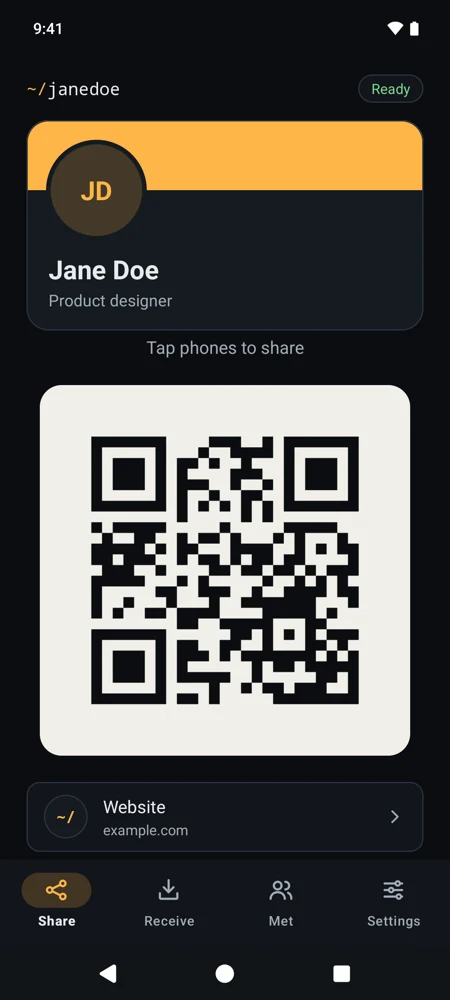
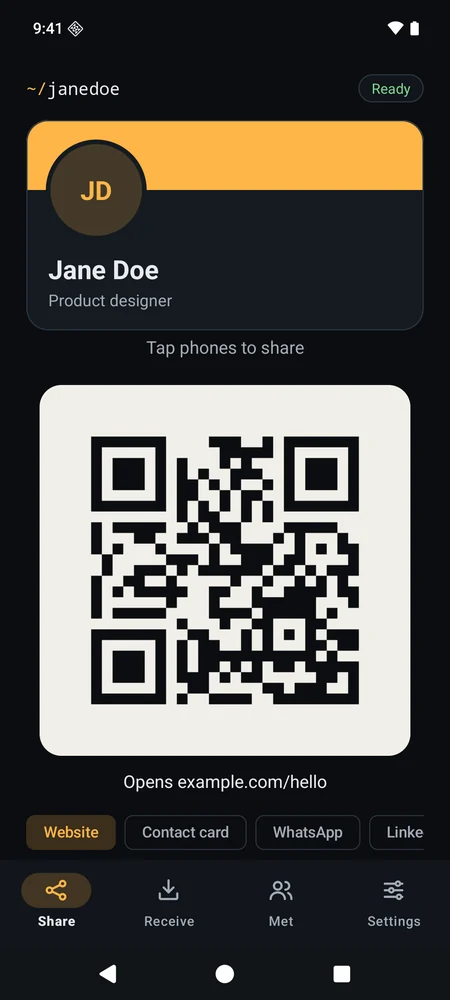
Tilde 1.1: case study and product page screenshots (not yet live)
For when Tilde 1.1.0 is released: the v1.1 status, fresh Share screen and
options screenshots, the 1.1 features in the case study, how changes are
now tested (a debug app beside the release, then a pre-release through
Obtainium), and an updated Next list. Write a card has since been tested
on a real sticker, so it's no longer listed as untested. The APK-size
note now says "under 2 MB" (1.1 is 1.7 MB) rather than an exact figure.

diff --git a/src/content/projects.ts b/src/content/projects.ts
@@ -119,7 +119,7 @@ export const projects: Project[] = [
     title: 'Tilde',
     kind: 'Open source · Android + hardware',
     year: '2026',
-    status: 'Open source · v1.0',
+    status: 'Open source · v1.1',
     live: 'https://tbutman.com/tilde',
     repo: 'https://github.com/tbutman/tilde',
     links: [{ label: 'card source on github', href: 'https://github.com/tbutman/tilde-card' }],
@@ -163,19 +163,20 @@ export const projects: Project[] = [
         heading: 'shipping it like a product',
         body: [
           'Both halves are public under the MIT licence, with documentation written for non-technical people: how to install the app, which stickers to buy and how to print the card. Every push runs the tests and lint in CI. A version tag builds a signed, shrunk release and publishes it on GitHub, where the Obtainium app picks up updates.',
+          'Using 1.0 every day shaped 1.1: a four-step welcome with a live preview of the card, saved links with a quick-switch row, and Send for people who aren’t in the room. Changes are tried on my phone as a separate debug app that installs next to the release; a pre-release then updates the real app through Obtainium, so the signed upgrade is tested before anyone else gets it.',
         ],
       },
     ],
     built: [
       'An Android app in Kotlin that emulates an NFC Forum Type 4 Tag with Host Card Emulation, serving links, vCards and Wi-Fi credentials as NDEF records.',
-      'Sharing that switches in one tap: a full contact card (vCard), a website or profile link, a WhatsApp chat or guest Wi-Fi. Plus receive and write modes: read other tags and phones, or write a link or contact card onto an NFC sticker or printed card.',
-      'A Met list of everyone a tap reached, with notes, event tags and CSV export; a welcome flow; a profile photo with an in-app cropper; and a Quick Settings tile.',
-      'Unit tests for the tag protocol, NDEF records, vCards and the Met log, plus CI and tag-triggered, signed GitHub releases (R8 shrinks the APK from 7.3 MB to 1.6 MB).',
+      'Sharing that switches in one tap or a swipe: a full contact card (vCard), a website or profile link, saved links, a WhatsApp chat or guest Wi-Fi, with Send and Copy for sharing at a distance. Plus receive and write modes: read other tags and phones, or write a link or contact card onto an NFC sticker or printed card.',
+      'A Met list of everyone a tap reached, with notes, event tags and CSV export; a four-step welcome with a live card preview and country-aware phone numbers; a profile photo with an in-app cropper; and a Quick Settings tile.',
+      'Unit tests for the tag protocol, NDEF records, vCards, saved links and the Met log, plus CI and tag-triggered, signed GitHub releases (R8 keeps the APK under 2 MB).',
       'A parametric OpenSCAD card in four colours: QR code only or with an NFC tag (thin or thick stickers), three back styles, 0.2 mm and 0.4 mm nozzle versions, and text that shrinks to fit using the font’s own metrics.',
       'A QR encoder written in OpenSCAD and a build pipeline that decodes the QR code and measures strokes and gaps on the exported model before printing.',
     ],
     reflection:
-      'Next: test writing a card and phone-to-phone taps between two Android phones on real hardware, publish the customisable card on MakerWorld, and consider the Play Store.',
+      'Next: multiple cards (say, one for work and one personal) in 1.2, phone-to-phone taps between two Android phones, a printed card with a tag sealed inside, the customisable card on MakerWorld, and the Play Store.',
   },
   {
     slug: 'chatlingo',
